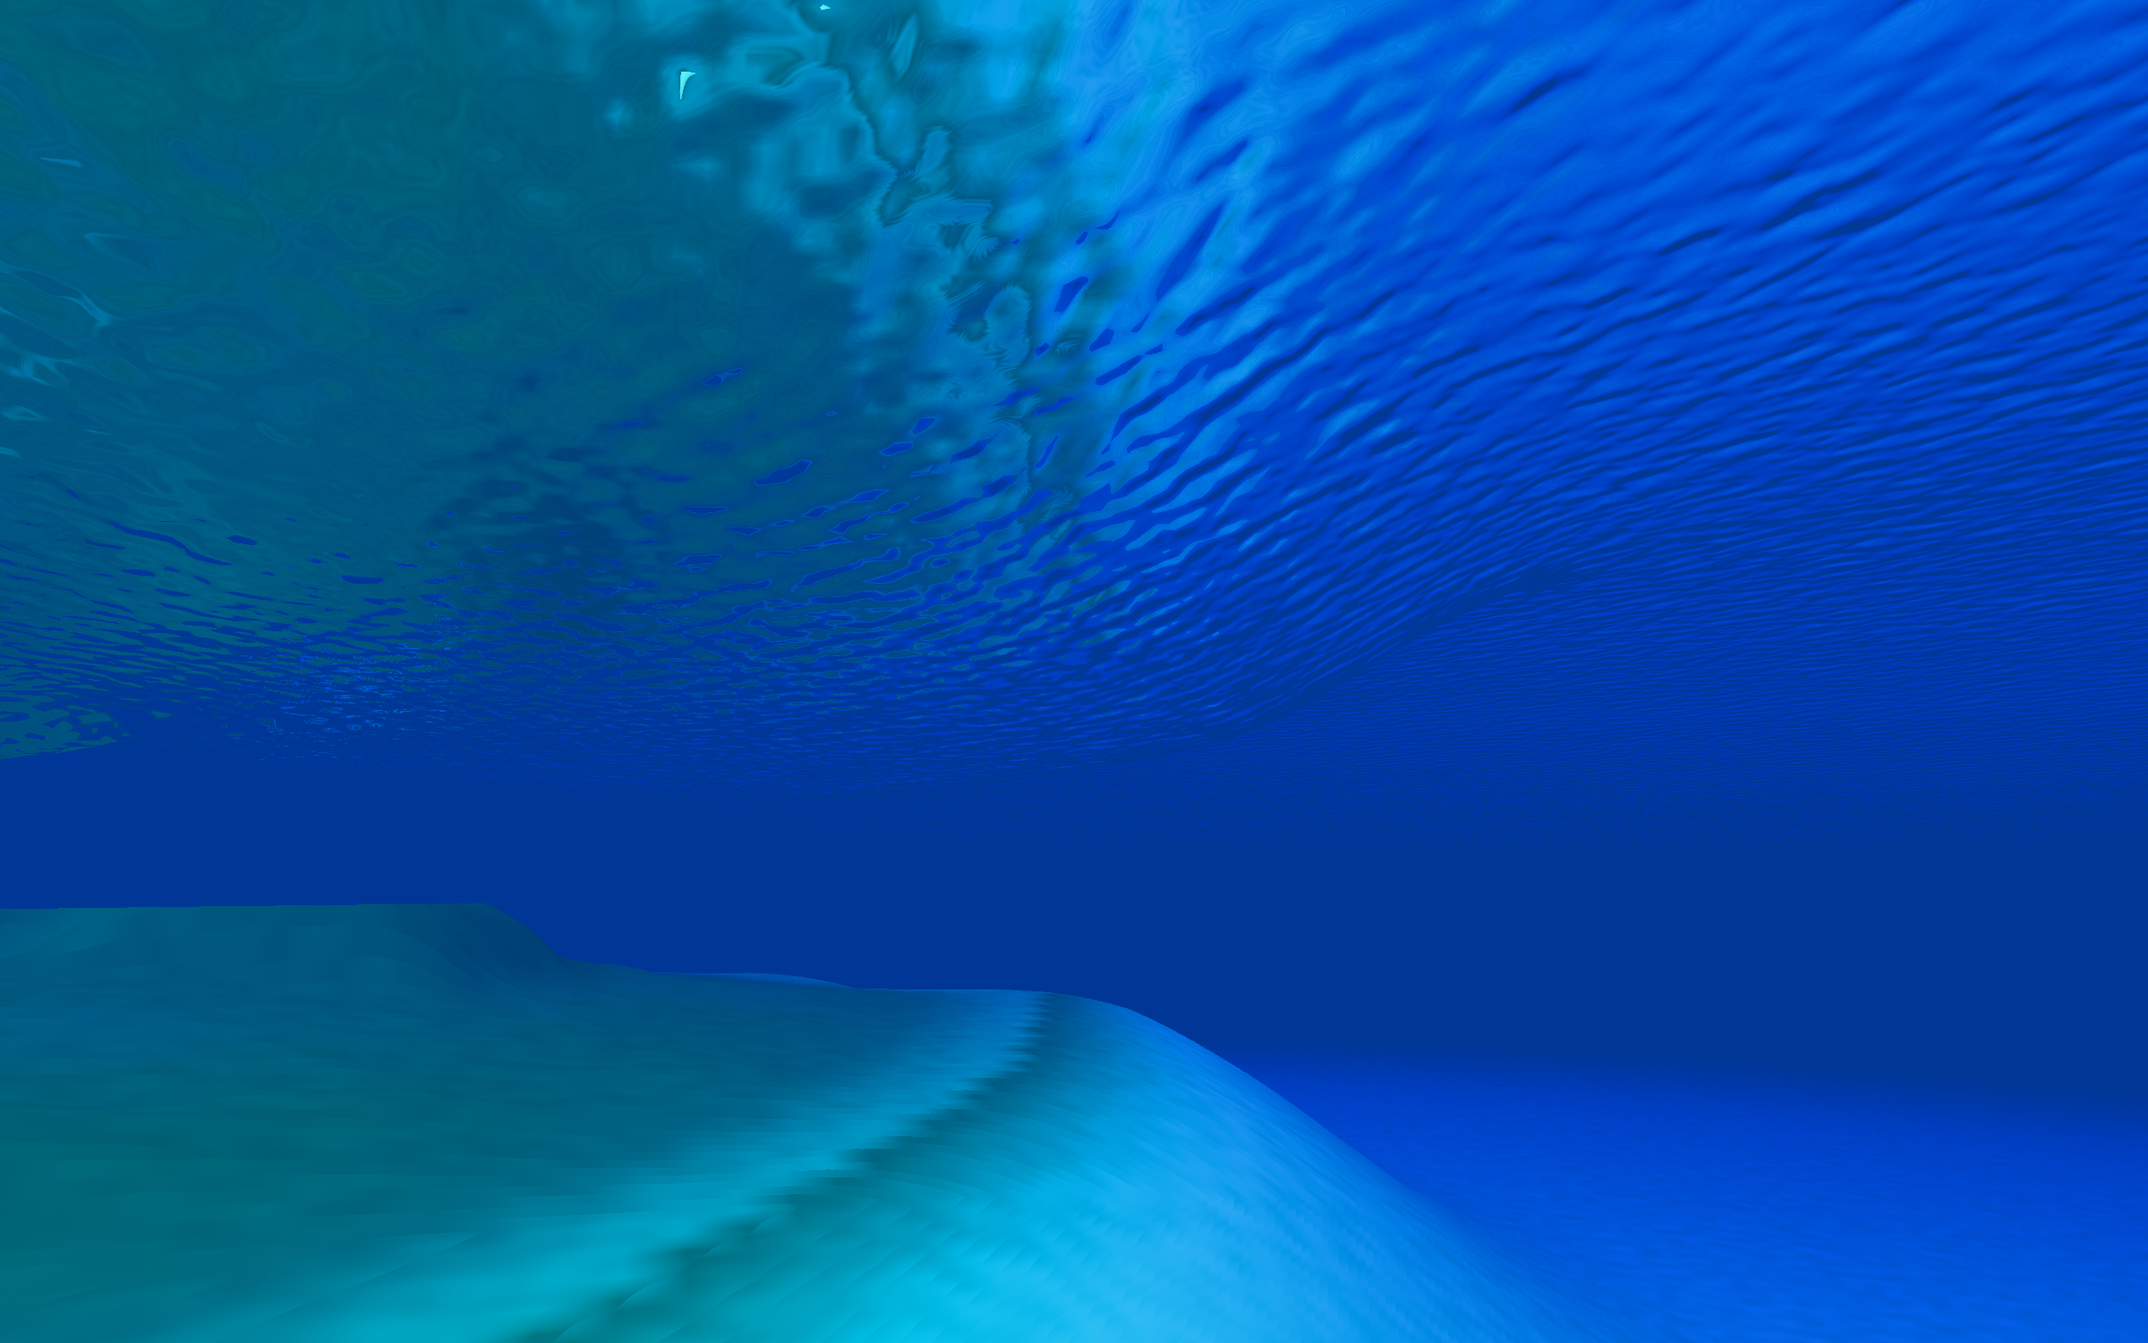
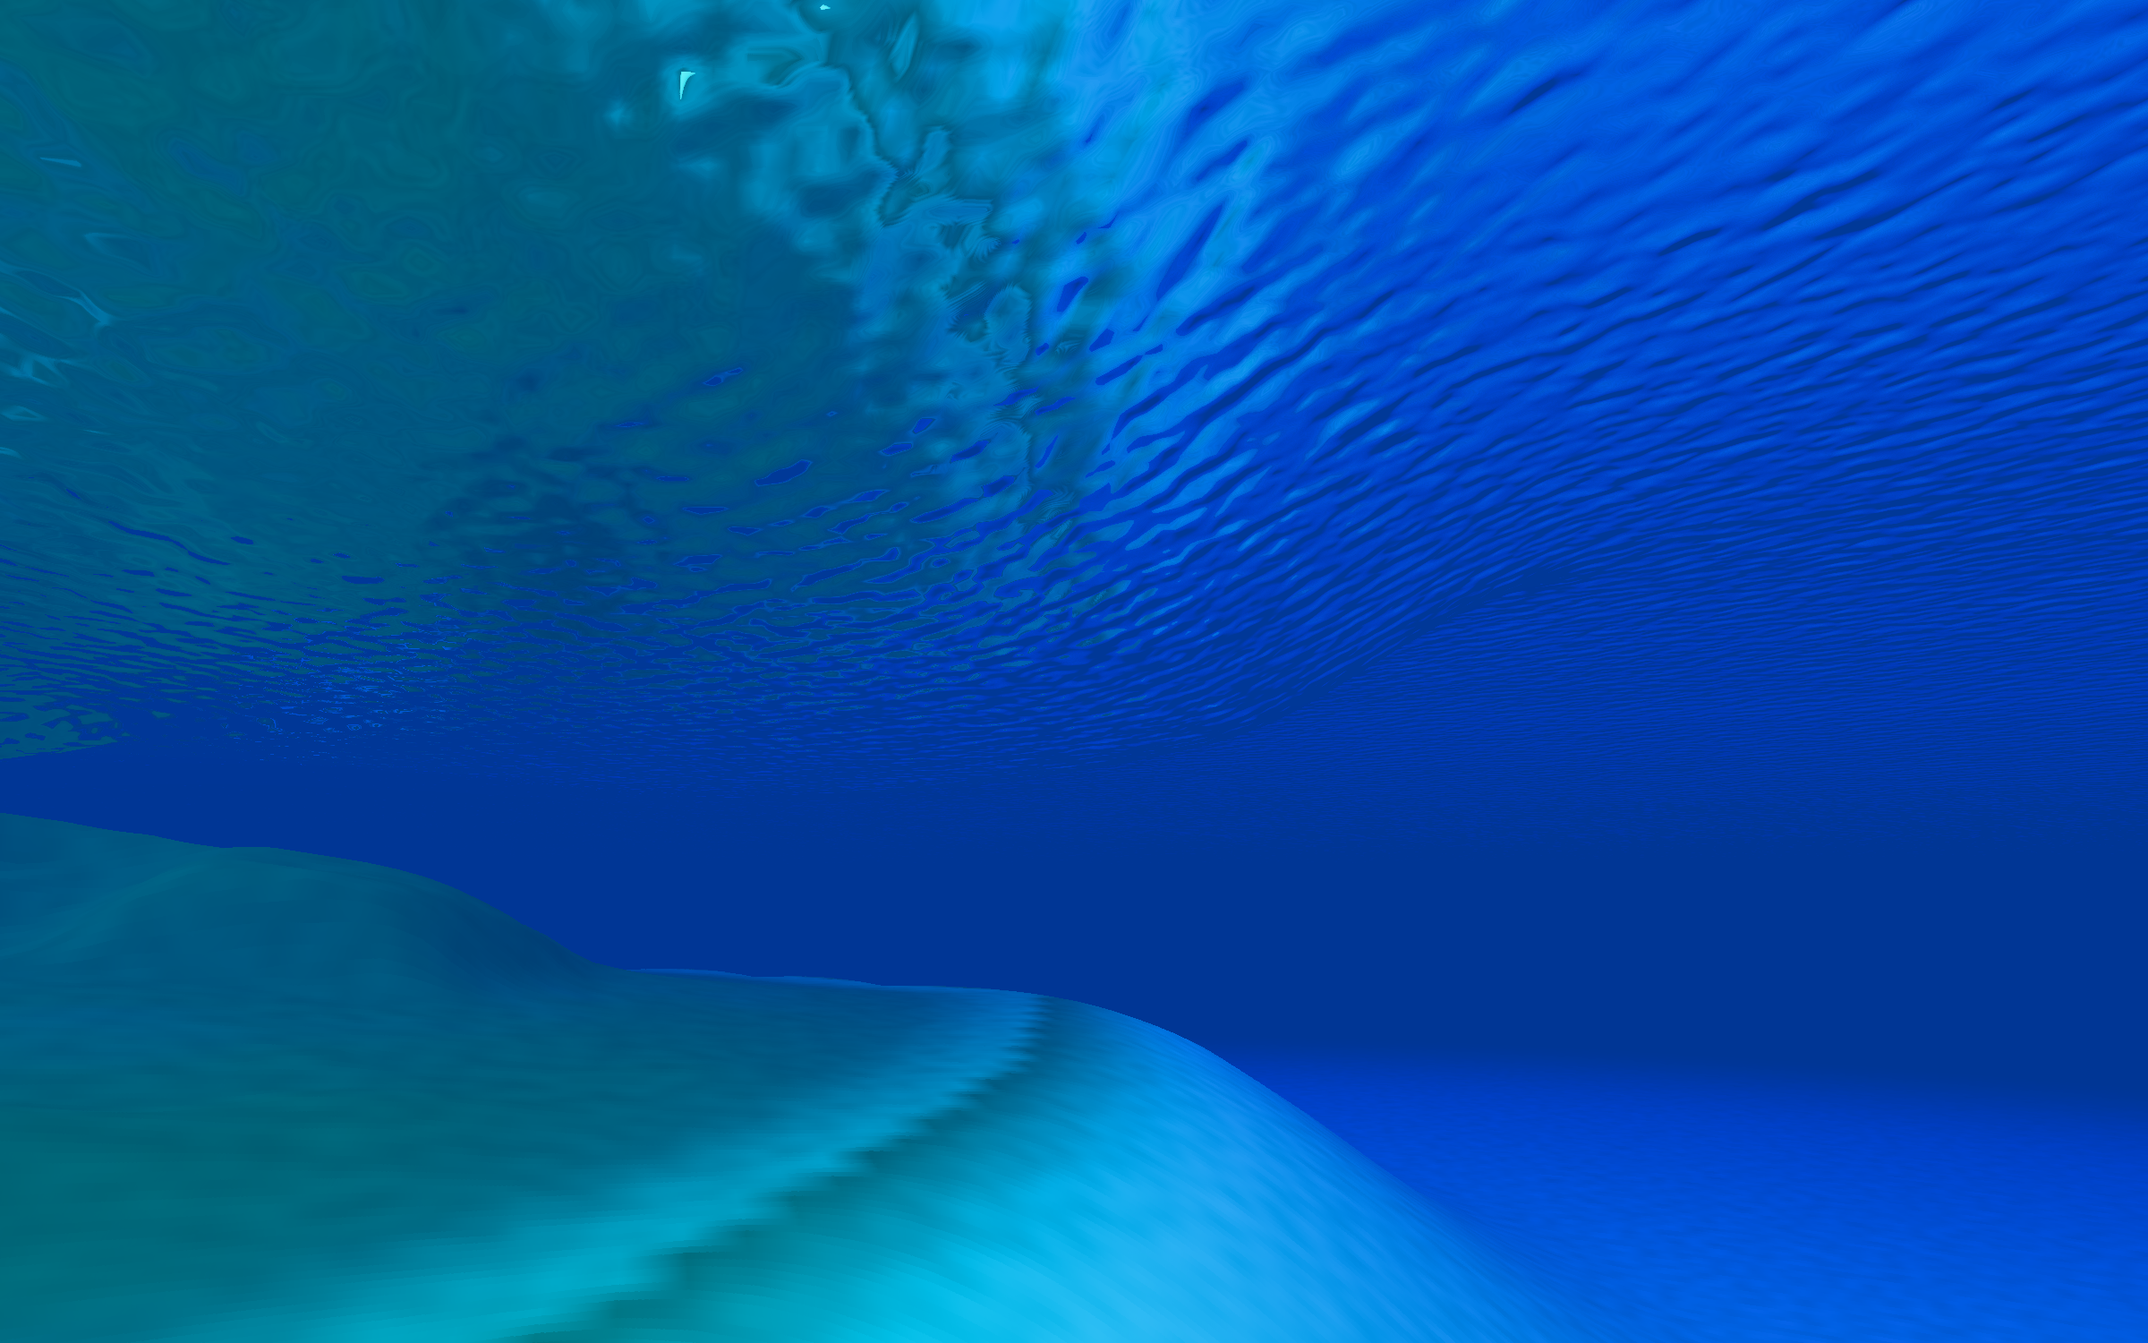
fix(underwater): a reef wall at or above eye level shows, and hides the surface behind it
The water volume marched downward rays only, so level and rising rays saw
through the reef. It now marches in any direction (rising rays stop at the
still surface), and the sheet from below checks the same march between the eye
and the surface point. The reach is capped at the surface for rising rays only:
a falling ray from a crest (the mirror's reflected ray) otherwise got a negative
reach and showed no reef. Gallery 18-21 re-shot; 20 is now the reef wall.

Changed region(s): [[0.0, 0.5827, 0.2188, 0.6747], [0.5, 0.736, 0.5312, 0.7667]]

diff --git a/src/ocean/WaterVolume.ts b/src/ocean/WaterVolume.ts
@@ -1,38 +1,97 @@
 import * as THREE from 'three/webgpu';
-import { Fn, If, cameraPosition, float, max, normalize, positionWorld, smoothstep } from 'three/tsl';
+import { Fn, If, Loop, cameraPosition, float, max, min, normalize, positionWorld, pow, select, smoothstep, vec2 } from 'three/tsl';
 import type { Seabed } from '../seabed/Seabed';
-import { marchSeabedNode, seabedRadianceNode } from '../seabed/seabedShading';
-import { MAX_MARCH_DEPTH_M, MAX_MARCH_DIST_M, REACH_FADE_DEPTH_M, REACH_FADE_DIST_M } from '../seabed/waterColumn';
+import { seabedRadianceNode } from '../seabed/seabedShading';
+import { MARCH_REFINE, MAX_MARCH_DIST_M, REACH_FADE_DIST_M } from '../seabed/waterColumn';
 import type { Sky } from '../sky/Sky';
 import { alongPathNode, waterColourAtDepthNode } from './underwaterNodes';
 import { type WaterOpticsUniforms, deepWaterUpwelling } from './waterShading';
 
 type N = any;
 
+/** Steps of the underwater march (denser near the eye: (i/N)^1.6, as the look-through's march). */
+const UNDERWATER_MARCH_STEPS = 24;
+
 /**
- * What an underwater eye at `origin` sees along `dir` where nothing is drawn: the seabed where the march reaches it,
- * through the water, else the water's own colour at the eye's depth. The march's reach fade takes the bed into the water
- * colour before its cutoffs, as the look-through from above does.
+ * vec2(distance, hit 0/1) of the first point along `dir` from `origin`, within `maxDist`, that is at or below the bed: in
+ * any direction, so level and rising rays meet a reef wall too (the look-through's marchSeabedNode only marches down).
  */
-export function waterVolumeColourNode(origin: N, dir: N, seabed: Seabed, sky: Sky, u: WaterOpticsUniforms): N {
+export function marchBedAlongNode(origin: N, dir: N, maxDist: N, seabed: Seabed): N {
   return Fn(() => {
-    // The eye's depth from `origin`, not cameraPosition: the self-test evaluates this in a compute pass, which has no camera.
-    const inf = waterColourAtDepthNode(deepWaterUpwelling(sky, u), u.extinction, max(seabed.tide.sub(origin.y), 0.0)).toVar();
-    const out = inf.toVar();
-    If(dir.y.lessThan(0.0), () => {
-      const march = marchSeabedNode(origin, dir, seabed);
-      const aboveBed = origin.y.sub(seabed.bedHeightNode(origin.xz));
-      const fade = float(1.0).sub(smoothstep(REACH_FADE_DEPTH_M, MAX_MARCH_DEPTH_M, aboveBed))
-        .mul(float(1.0).sub(smoothstep(REACH_FADE_DIST_M, MAX_MARCH_DIST_M, march.x)));
-      If(march.y.greaterThan(0.5).and(fade.greaterThan(0.0)), () => {
-        const bed = seabedRadianceNode(origin.add(dir.mul(march.x)), seabed, sky, u);
-        // The bed through the path, then the reach fade toward the water colour.
-        const seen = alongPathNode(bed, inf, u.extinction, march.x);
-        out.assign(inf.add(seen.sub(inf).mul(fade)));
+    const result = vec2(0.0, 0.0).toVar();
+    If(origin.y.lessThanEqual(seabed.bedHeightNode(origin.xz)), () => {
+      result.assign(vec2(0.0, 1.0));
+    }).Else(() => {
+      const prev = float(0.0).toVar(), lo = float(0.0).toVar(), hi = float(0.0).toVar(), found = float(0.0).toVar();
+      Loop(UNDERWATER_MARCH_STEPS, ({ i }: N) => {
+        If(found.lessThan(0.5), () => {
+          const s = maxDist.mul(pow(float(i).add(1.0).div(UNDERWATER_MARCH_STEPS), 1.6));
+          const q = origin.add(dir.mul(s));
+          If(q.y.lessThanEqual(seabed.bedHeightNode(q.xz)), () => {
+            found.assign(1.0);
+            lo.assign(prev);
+            hi.assign(s);
+          });
+          prev.assign(s);
+        });
       });
+      If(found.greaterThan(0.5), () => {
+        Loop(MARCH_REFINE, () => {
+          const mid = lo.add(hi).mul(0.5);
+          const q = origin.add(dir.mul(mid));
+          If(q.y.lessThanEqual(seabed.bedHeightNode(q.xz)), () => { hi.assign(mid); }).Else(() => { lo.assign(mid); });
+        });
+        result.assign(vec2(lo.add(hi).mul(0.5), 1.0));
+      });
+    });
+    return result;
+  })();
+}
+
+/** The water's own colour seen from an eye at `origin` (its depth below the still water). */
+function waterColourFrom(origin: N, seabed: Seabed, sky: Sky, u: WaterOpticsUniforms): N {
+  // From `origin`, not cameraPosition: the self-tests evaluate this in a compute pass, which has no camera.
+  return waterColourAtDepthNode(deepWaterUpwelling(sky, u), u.extinction, max(seabed.tide.sub(origin.y), 0.0));
+}
+
+/**
+ * The reef along `dir` from `origin` within `maxDist`, through the water; `behind` where there is none. The march fades
+ * the reef into the water's colour before its reach, as the look-through from above does.
+ */
+function reefOrNode(origin: N, dir: N, maxDist: N, behind: N, seabed: Seabed, sky: Sky, u: WaterOpticsUniforms): N {
+  return Fn(() => {
+    const out = behind.toVar();
+    const march = marchBedAlongNode(origin, dir, maxDist, seabed);
+    const fade = float(1.0).sub(smoothstep(REACH_FADE_DIST_M, MAX_MARCH_DIST_M, march.x));
+    If(march.y.greaterThan(0.5).and(fade.greaterThan(0.0)), () => {
+      const inf = waterColourFrom(origin, seabed, sky, u);
+      const bed = alongPathNode(seabedRadianceNode(origin.add(dir.mul(march.x)), seabed, sky, u), inf, u.extinction, march.x);
+      out.assign(inf.add(bed.sub(inf).mul(fade)));
     });
     return out;
   })();
+}
+
+/**
+ * What an underwater eye at `origin` sees along `dir` where nothing is drawn: the reef where the march meets it (down,
+ * level or rising, stopping at the surface), through the water, else the water's own colour at the eye's depth.
+ */
+export function waterVolumeColourNode(origin: N, dir: N, seabed: Seabed, sky: Sky, u: WaterOpticsUniforms): N {
+  const inf = waterColourFrom(origin, seabed, sky, u);
+  // A rising ray leaves the water at the still surface: the sheet from below draws beyond it (reefInFrontNode). Only a
+  // rising ray: a level or falling one from a surface point above the still water (the mirror's reflected ray, from a
+  // crest) would get a negative distance and see no reef at all.
+  const toSurface = max(seabed.tide.sub(origin.y), 0.0).div(max(dir.y, 1e-3));
+  const reach = select(dir.y.greaterThan(1e-3), min(float(MAX_MARCH_DIST_M), toSurface), float(MAX_MARCH_DIST_M));
+  return reefOrNode(origin, dir, reach, inf, seabed, sky, u);
+}
+
+/**
+ * `surface` (what the sheet from below shows `dist` away along `dir`), unless the reef stands between the eye and that
+ * point: then the reef, through the water.
+ */
+export function reefInFrontNode(origin: N, dir: N, dist: N, surface: N, seabed: Seabed, sky: Sky, u: WaterOpticsUniforms): N {
+  return reefOrNode(origin, dir, min(dist, float(MAX_MARCH_DIST_M)), surface, seabed, sky, u);
 }
 
 /** The water around an underwater eye: drawn first, in place of the sky dome, wherever the sheet doesn't cover. */

diff --git a/src/ocean/underwater.selftest.ts b/src/ocean/underwater.selftest.ts
@@ -1,5 +1,5 @@
 import * as THREE from 'three/webgpu';
-import { Fn, float, instanceIndex, storage, vec3, vec4 } from 'three/tsl';
+import { Fn, float, instanceIndex, select, storage, vec3, vec4 } from 'three/tsl';
 import { registerSelfTest } from '../dev/selfTest';
 import { CRITICAL_ANGLE_RAD, alongPath, fresnelFromInside, waterColourAtDepth } from './underwaterOptics';
 import { alongPathNode, fresnelFromInsideNode, waterColourAtDepthNode } from './underwaterNodes';
@@ -9,7 +9,7 @@ import { Seabed } from '../seabed/Seabed';
 import { Sky } from '../sky/Sky';
 import { createWaterOpticsUniforms } from './waterShading';
 import { DEFAULT_WATER_OPTICS } from './waterOptics';
-import { waterVolumeColourNode } from './WaterVolume';
+import { reefInFrontNode, waterVolumeColourNode } from './WaterVolume';
 import { sunForConditions } from '../astro/sunForConditions';
 
 registerSelfTest({
@@ -61,6 +61,9 @@ registerSelfTest({
       { o: [0, -3, 0], d: [0, 1, 0], tag: 'up' },
       { o: [0, -40, 0], d: [0, -1, 0], tag: 'inside the reef' },
       { o: [0, -3, -900], d: [0, -1, 0], tag: 'deep water' },
+      // The mirror's reflected ray starts at the surface point, which on a crest is above the still water.
+      { o: [0, 0.8, 0], d: [0.3, -0.954, 0], tag: 'from a crest, down' },
+      { o: [0, 0.8, 0], d: [0, 1, 0], tag: 'from a crest, up (water)' },
     ];
     const n = cases.length;
     const inAttr = new THREE.StorageBufferAttribute(new Float32Array(cases.flatMap((c) => [...c.o, 0, ...c.d, 0])), 4);
@@ -76,6 +79,48 @@ registerSelfTest({
     const rows = cases.map((c, i) => ({ tag: c.tag, rgb: [out[i * 4], out[i * 4 + 1], out[i * 4 + 2]] }));
     const finite = rows.every((r) => r.rgb.every((v) => Number.isFinite(v) && v >= 0));
     const differs = rows[0].rgb.some((v, k) => Math.abs(v - rows[3].rgb[k]) > 1e-4 * Math.max(rows[3].rgb[k], 1e-3));
-    return { pass: finite && differs, detail: rows.map((r) => `${r.tag} ${r.rgb.map((v) => v.toExponential(2)).join(',')}`).join('; ') };
+    // From a crest the reef below still shows (it read as flat water when the march's reach was capped by a negative distance to the still surface).
+    const fromCrest = rows[6].rgb[1] > 2 * rows[7].rgb[1];
+    return { pass: finite && differs && fromCrest, detail: rows.map((r) => `${r.tag} ${r.rgb.map((v) => v.toExponential(2)).join(',')}`).join('; ') };
+  },
+});
+
+registerSelfTest({
+  name: 'underwater: a reef wall at or above eye level shows (level and rising rays), and hides the surface behind it',
+  async run(renderer) {
+    const sky = new Sky();
+    const sun = sunForConditions(DEFAULT_CONDITIONS);
+    sky.update(renderer, new THREE.Vector3(...sun.direction), 1);
+    const seabed = new Seabed(buildBathymetry());
+    const u = createWaterOpticsUniforms(DEFAULT_WATER_OPTICS);
+    // 9 m deep over the 13 m shelf, 20 m west of the ledge, which rises to about 6 m deep: level and rising rays east meet
+    // the wall; straight up meets only water (the reference). The last row asks whether the reef hides a surface point
+    // 30 m away along a ray rising 8° east (sentinel colour 100 in, the reef's colour out when it does).
+    const eye: [number, number, number] = [-20, -9, 0];
+    const dirs: [number, number, number][] = [[1, 0, 0], [0.99, 0.14, 0], [0, 1, 0], [0.99, 0.14, 0]];
+    const n = dirs.length;
+    const inAttr = new THREE.StorageBufferAttribute(new Float32Array(dirs.flatMap((d) => [...d, 0])), 4);
+    const outAttr = new THREE.StorageBufferAttribute(new Float32Array(n * 4), 4);
+    const input = storage(inAttr, 'vec4', n).toReadOnly();
+    const output = storage(outAttr, 'vec4', n);
+    const o = vec3(...eye);
+    const pass = Fn(() => {
+      const d = input.element(instanceIndex).xyz;
+      const volume = waterVolumeColourNode(o, d, seabed, sky, u);
+      const hidden = reefInFrontNode(o, d, float(30.0), vec3(100.0), seabed, sky, u);
+      const chosen: any = select(instanceIndex.equal(3), hidden, volume); // three typings gap: select() is typed narrower than its result
+      output.element(instanceIndex).assign(vec4(chosen, 1.0));
+    })().compute(n) as THREE.ComputeNode;
+    renderer.compute(pass);
+    const out = new Float32Array(await renderer.getArrayBufferAsync(outAttr));
+    const rgb = (i: number): number[] => [out[i * 4], out[i * 4 + 1], out[i * 4 + 2]];
+    const water = rgb(2);
+    const differs = (c: number[]): boolean => c.some((v, k) => Math.abs(v - water[k]) > 0.05 * Math.max(water[k], 1e-3));
+    const finite = [0, 1, 2, 3].every((i) => rgb(i).every((v) => Number.isFinite(v) && v >= 0));
+    const level = differs(rgb(0)), rising = differs(rgb(1)), hides = rgb(3).every((v) => v < 50);
+    return {
+      pass: finite && level && rising && hides,
+      detail: `level ${rgb(0).map((v) => v.toExponential(2))} (wall ${level}); rising ${rgb(1).map((v) => v.toExponential(2))} (wall ${rising}); up (water) ${water.map((v) => v.toExponential(2))}; surface behind the reef ${rgb(3).map((v) => v.toExponential(2))} (hidden ${hides})`,
+    };
   },
 });

diff --git a/src/ocean/OceanSurface.ts b/src/ocean/OceanSurface.ts
@@ -8,7 +8,7 @@ import type { Sky } from '../sky/Sky';
 import { CASCADE_FADES, fadeWeightNode } from './cascadeFades';
 import type { OceanSimulation } from './OceanSimulation';
 import { buildPolarGrid } from './polarGrid';
-import { waterVolumeColourNode } from './WaterVolume';
+import { reefInFrontNode, waterVolumeColourNode } from './WaterVolume';
 import { type WaterOpticsUniforms, shadeWater, shadeWaterFromBelow } from './waterShading';
 import type { WaterSurfaceModel } from './waterSurface';
 
@@ -167,13 +167,15 @@ export class OceanSurface {
     const below = new THREE.MeshBasicNodeMaterial();
     below.side = THREE.BackSide;
     below.positionNode = material.positionNode;
-    below.colorNode = shadeWaterFromBelow(
+    // A reef between the eye and the surface point hides it (the sheet is drawn over everything the dome shows).
+    const fromBelow = shadeWaterFromBelow(
       {
         normal, viewDir, distance, foam: max(fft.foam, setFoamLook.x), surfaceY: positionWorld.y, tide: model.seabed.tide,
         reflected: (dir: N) => waterVolumeColourNode(positionWorld, dir, model.seabed, sky, optics),
       },
       sky, optics,
     );
+    below.colorNode = reefInFrontNode(cameraPosition, viewDir.negate(), distance, fromBelow, model.seabed, sky, optics);
     this.aboveMaterial = material;
     this.belowMaterial = below;
 

diff --git a/docs/superpowers/specs/2026-09-27-underwater-view-design.md b/docs/superpowers/specs/2026-09-27-underwater-view-design.md
@@ -53,8 +53,8 @@ There is no split view: the whole frame switches as the eye crosses the surface.
 
 - A sphere around the camera like the sky dome (`BackSide`, no depth write, drawn first), visible only underwater. Every pixel the sheet and ribbon don't cover shows it.
 - For a view direction d:
-  - rising (d.y > 0): L∞ at the camera's depth (the sheet covers almost all of these pixels anyway);
-  - otherwise the existing `marchSeabedNode` from the camera along d. On a hit, the seabed's radiance (§3.4.1) through the path; on a miss, L∞. The march's reach fade (`REACH_FADE_*`) fades the bed into L∞ before the cutoffs, as it does from above.
+  - a march along d in any direction (`marchBedAlongNode`; rising rays stop at the still surface). On a hit, the seabed's radiance (§3.4.1) through the path; on a miss, L∞. The reach fade (`REACH_FADE_DIST_M`) fades the bed into L∞ before the cutoff, as it does from above.
+  - **As built (final review):** the draft marched downward rays only (the look-through's `marchSeabedNode`), so a reef wall at or above eye level was invisible from a diver's eye. The sheet from below also checks the same march between the eye and the surface point (`reefInFrontNode`), so the reef hides the surface behind it.
 - **§3.4.1 The seabed's lighting** moves out of `seabedTerms` into `seabedRadianceNode(hitPos, seabed, sky, u)`, shared by the view from above and from below, so the reef is lit the same either way. `seabedTerms` calls it unchanged, so the view from above is the same code.
 
 ### 3.5 The ribbon

diff --git a/docs/superpowers/gallery/phase-2/README.md b/docs/superpowers/gallery/phase-2/README.md
@@ -50,5 +50,5 @@ The camera below the surface, at the `the-drain` moment's time. The surface is s
 
 - `18-underwater-window.png`: 3 m under the channel north of the peak, looking straight up. The sky fills Snell's window, brightening toward its rim where the horizon sky is squeezed in, and the low morning sun sits at the top left. At the right edge, the ripples tip the surface past the 48.6° rim into total internal reflection.
 - `19-underwater-reef.png`: 3 m deep over the north ledge, looking along it. The ledge fades into the blue, and the rippled surface overhead mirrors the reef below.
-- `20-underwater-down.png`: 4 m deep over the peak, looking down at the reef close below. Its detail is soft because the seabed data is 1 m resolution.
+- `20-underwater-wall.png`: 9 m deep over the 13 m shelf, 20 m west of the ledge, looking east. The reef wall rises above eye level, and above it Snell's window is a bright ellipse with the low sun in it. (The reviewer caught that level and rising rays saw through the reef; the march now runs in any direction.)
 - `21-underwater-drain.png`: the `the-drain` camera moved 1.5 m under the surface. The reef edge runs off into the channel, under the mirror of the surface.
